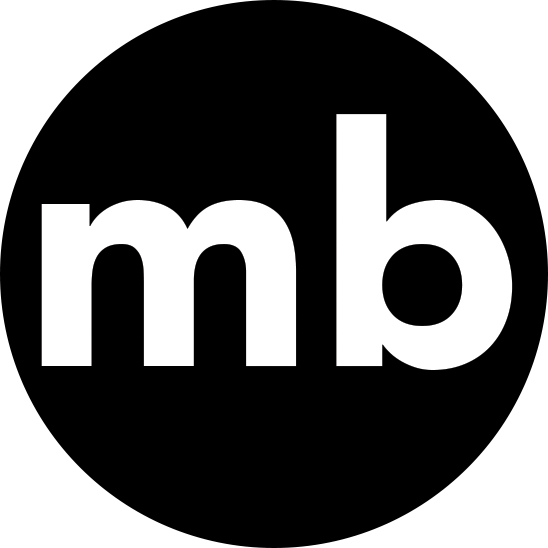
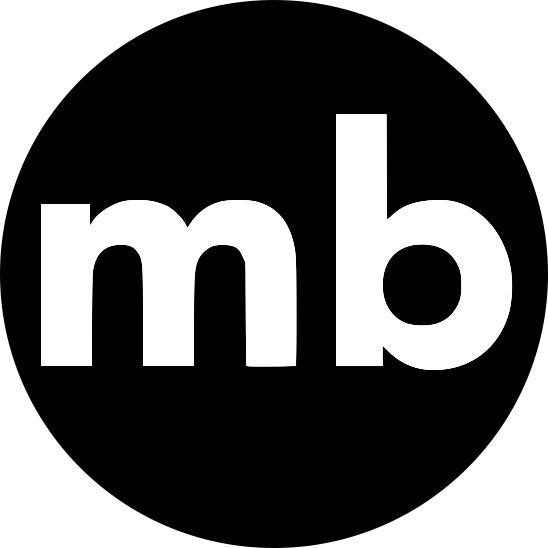
heading font option

diff --git a/index.html b/index.html
@@ -3,6 +3,7 @@
 <head>
 	<title>Mitchell Blom</title>
 	<link rel="icon" type="image/png" href="./images/mb-icon.png">
+	<link href="https://fonts.googleapis.com/css?family=Chicle|PT+Sans+Caption" rel="stylesheet">
 	<link rel="stylesheet" href="https://cdnjs.cloudflare.com/ajax/libs/materialize/0.100.1/css/materialize.min.css">   
 	<link rel="stylesheet" type="text/css" href="./css/main.css">
 

diff --git a/css/main.css b/css/main.css
@@ -35,7 +35,9 @@ nav {
   display: inline-block; }
 
 .bigname {
-  transform: rotate(-28deg); }
+  transform: rotate(-28deg);
+  text-shadow: 1px 1px 1px #c4c4c4, 0 0 1em #eeeeee, 0 0 0.1em #eeeeee;
+  font-family: Chicle, sans-serif; }
 
 .vertalign {
   height: 100%;

diff --git a/sass/styles.scss b/sass/styles.scss
@@ -46,6 +46,8 @@ nav {
 
 .bigname {
 	transform: rotate(-28deg);
+	text-shadow: 1px 1px 1px $silver, 0 0 1em $white, 0 0 0.1em $white;
+	font-family: Chicle, sans-serif;
 }
 
 .vertalign {
